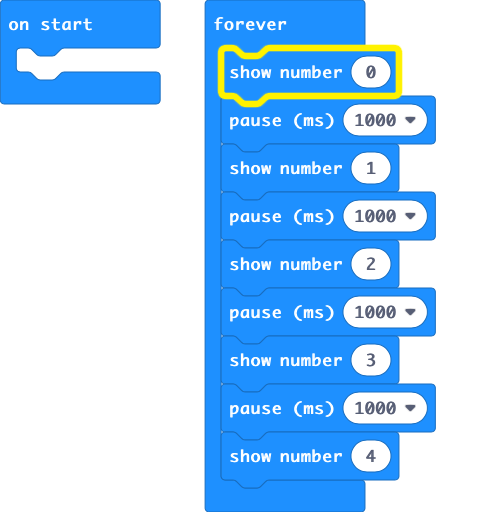
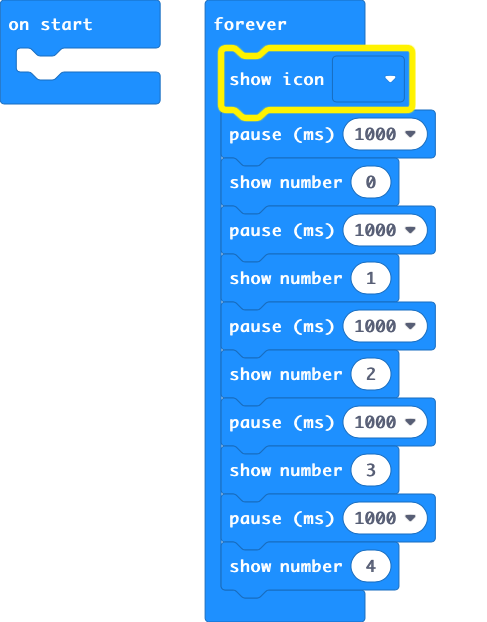
Update main.blocks, main.ts

Changed region(s): [[0.4312, 0.0312, 0.8932, 0.9688], [0.0, 0.0312, 0.3388, 0.2188]]

diff --git a/main.ts b/main.ts
@@ -1,4 +1,6 @@
 basic.forever(function () {
+    basic.showIcon(IconNames.Duck)
+    basic.pause(1000)
     basic.showNumber(0)
     basic.pause(1000)
     basic.showNumber(1)
